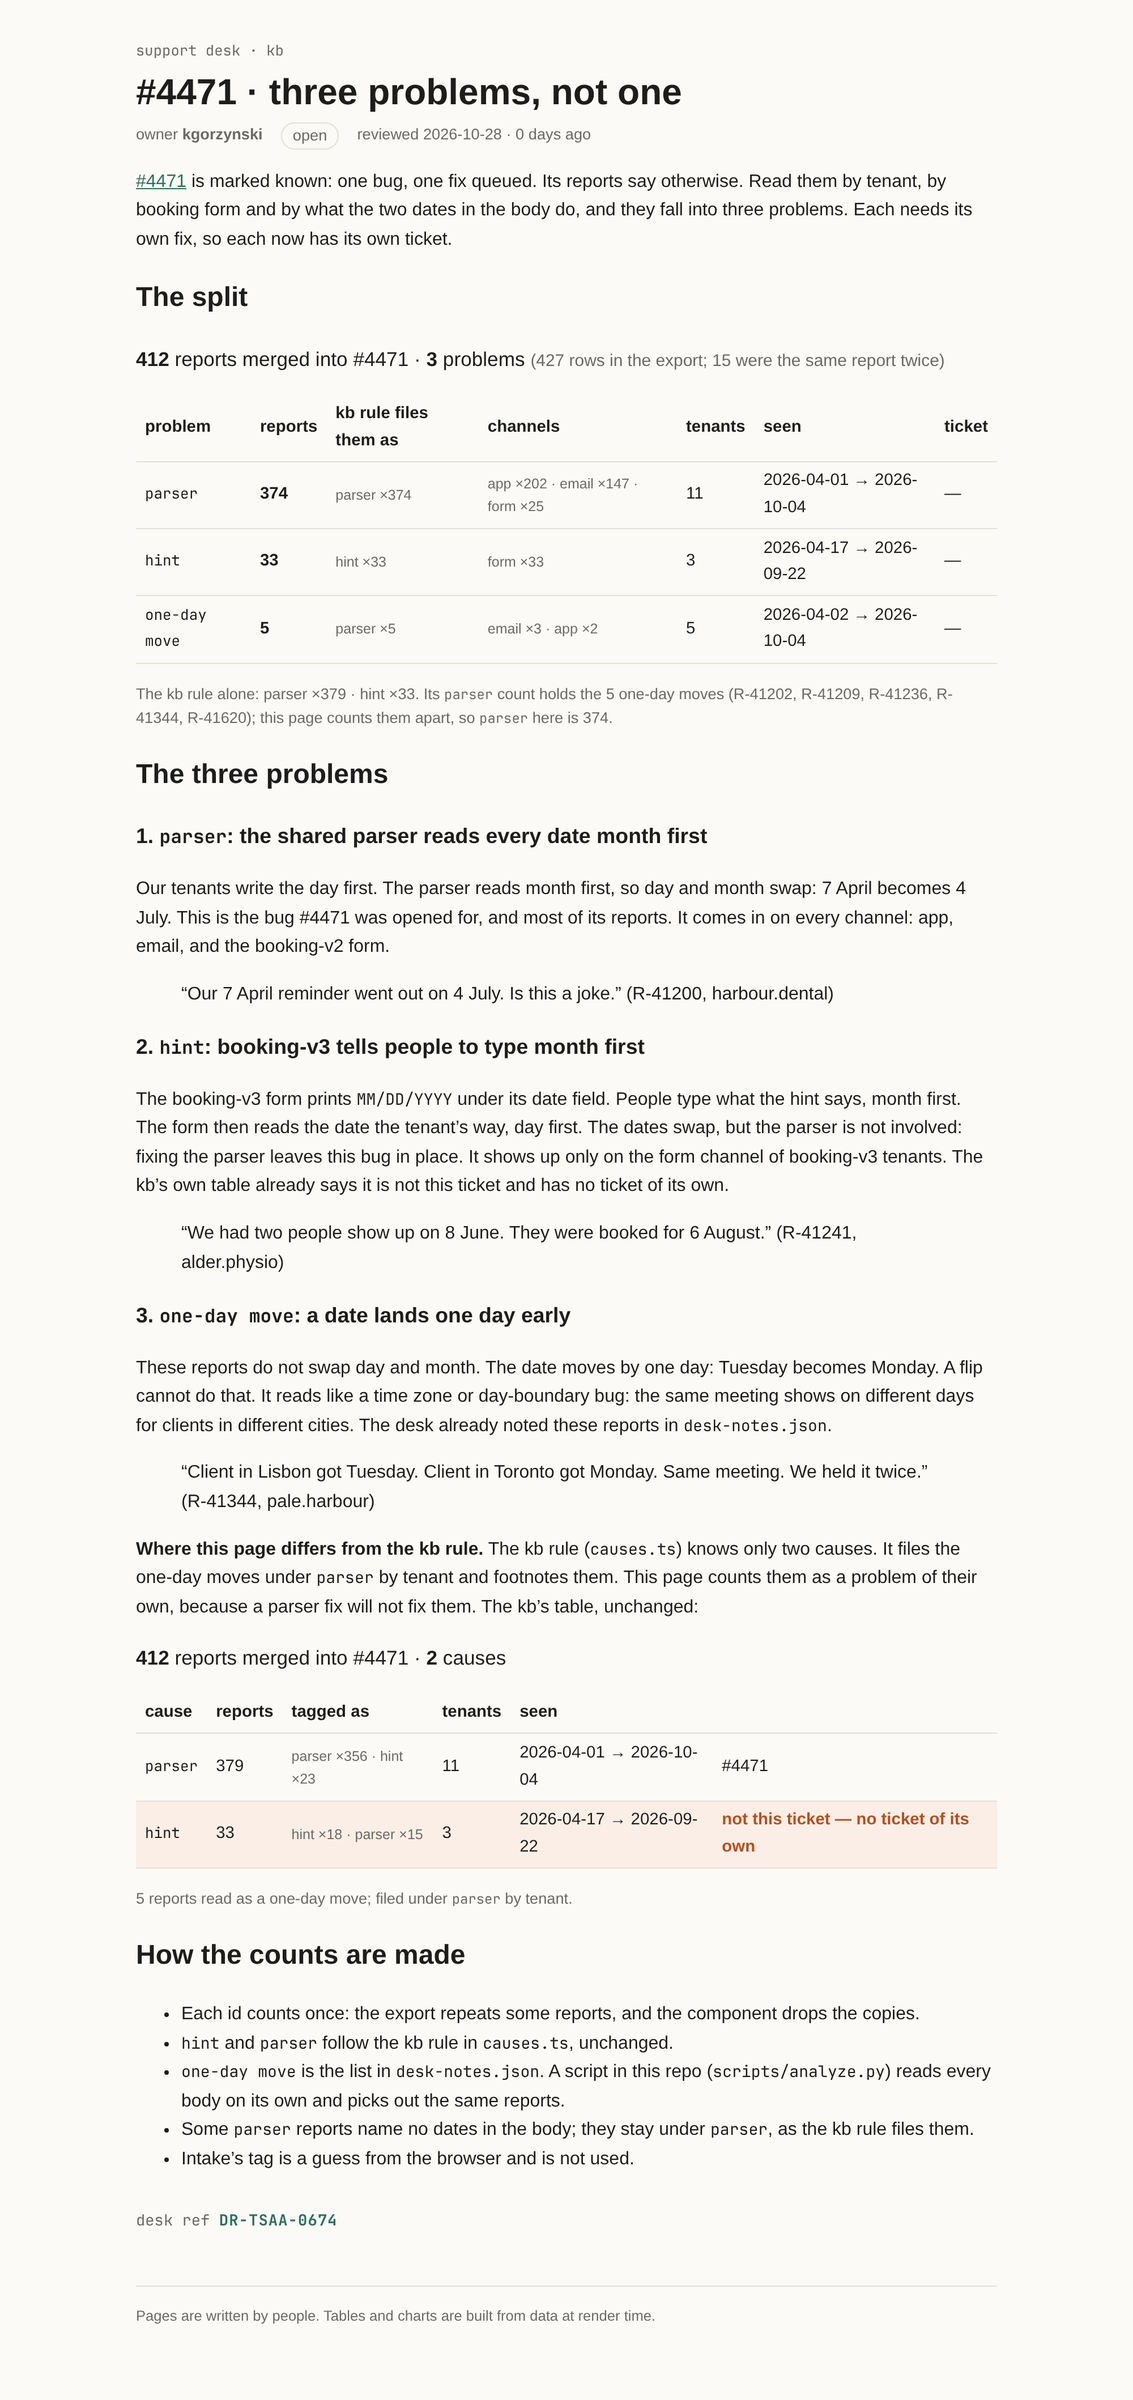
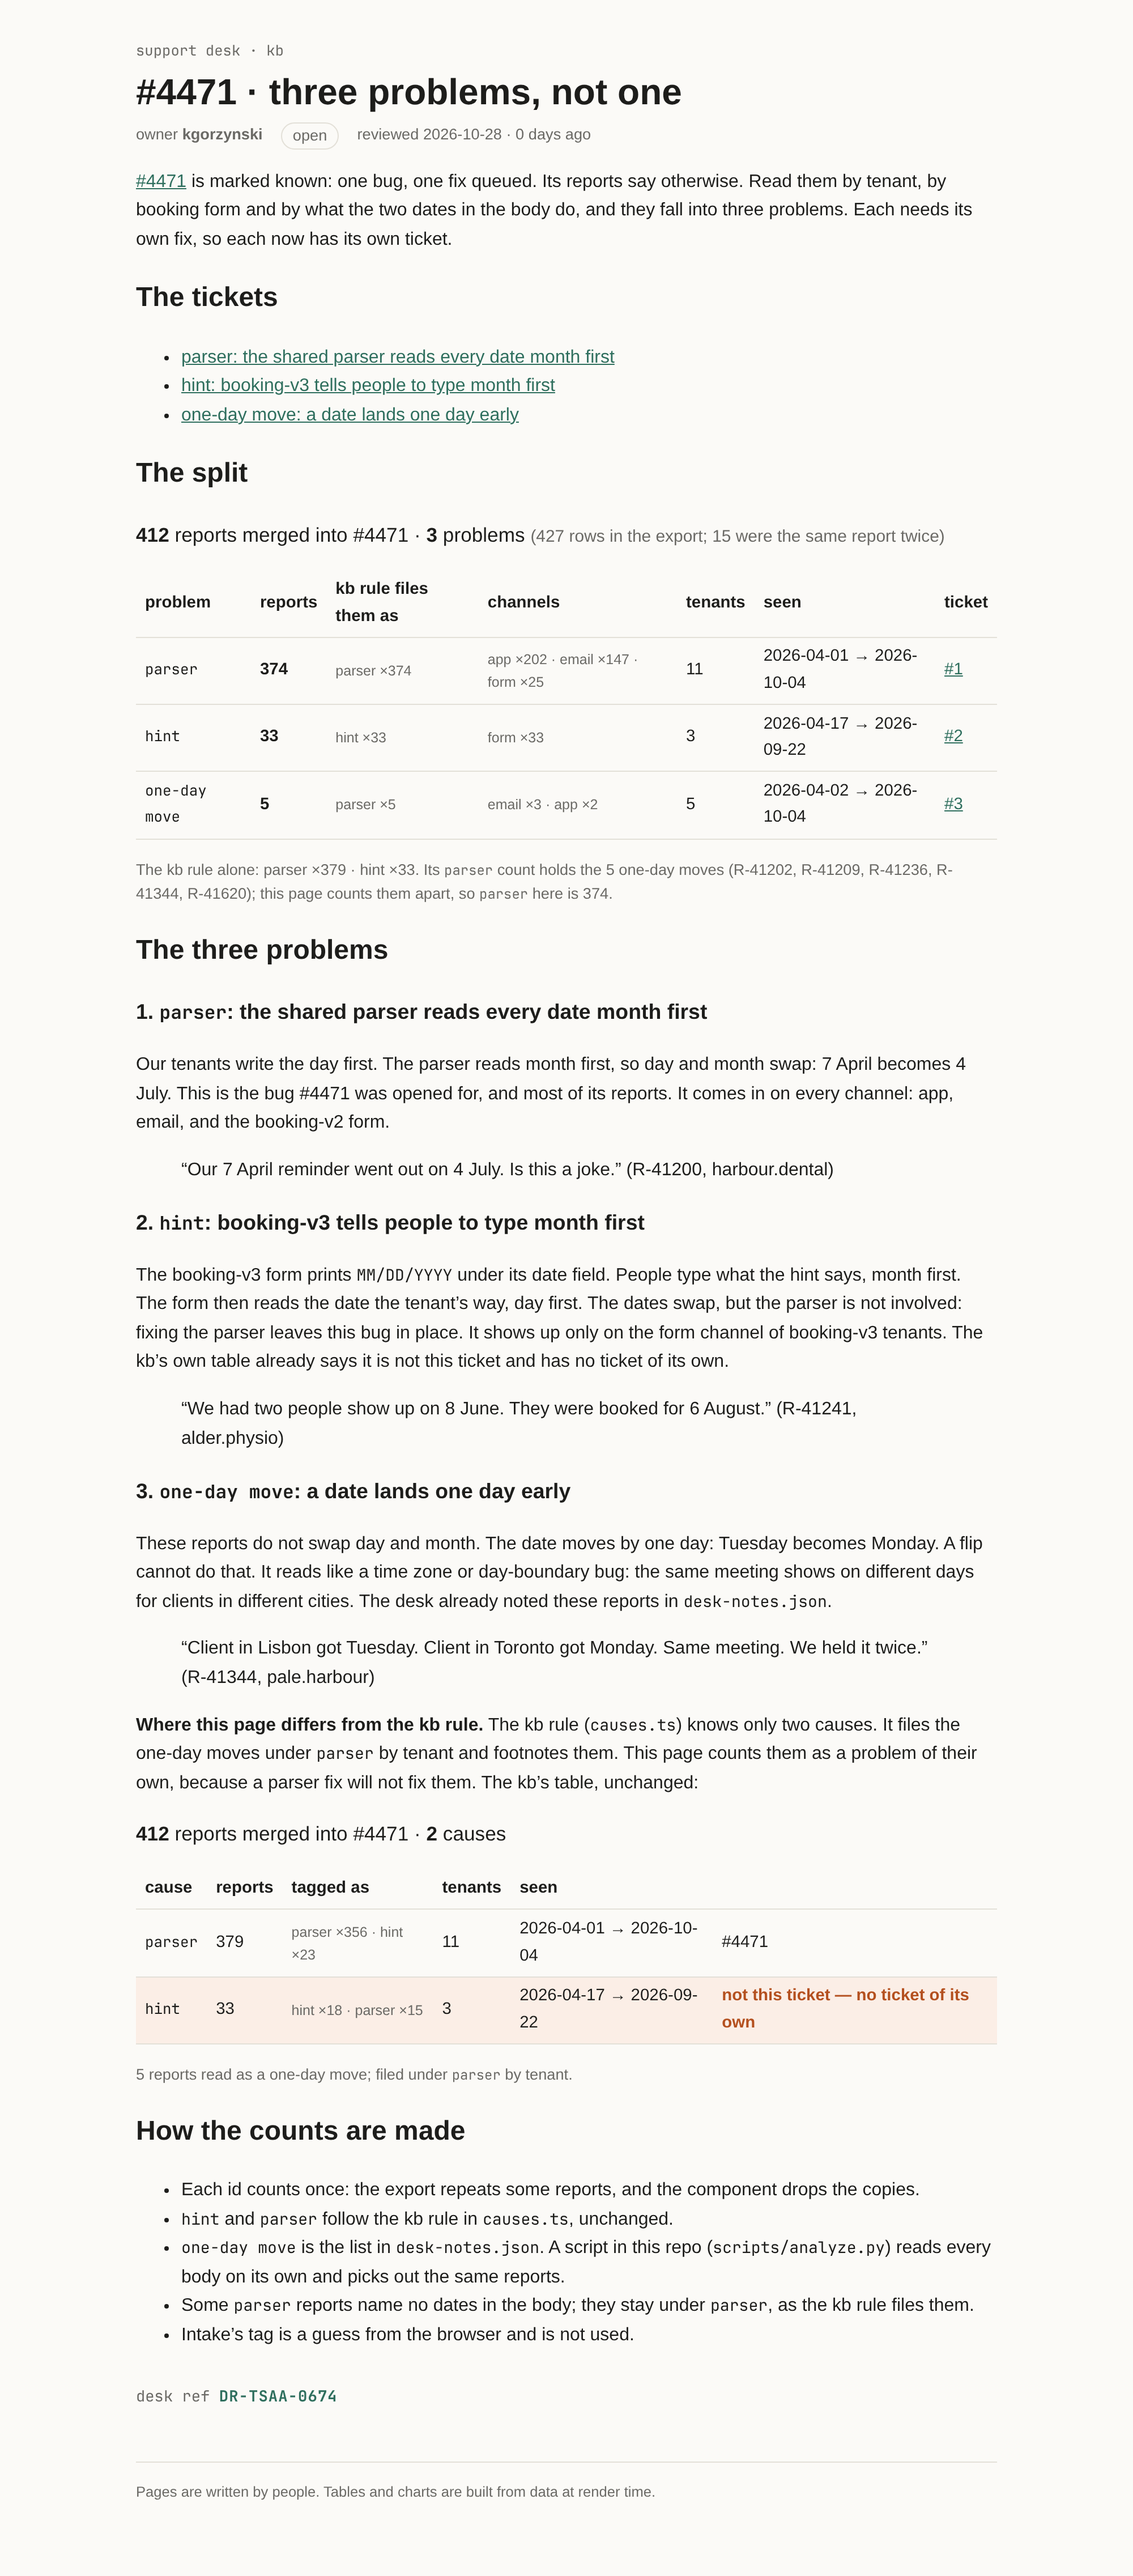
Link the three issues from the page and README; rebuild docs

diff --git a/docs/4471-causes.html b/docs/4471-causes.html
@@ -9,11 +9,11 @@
 		<link href="../../_app/immutable/chunks/B2Ul7l_u.js" rel="modulepreload">
 		<link href="../../_app/immutable/chunks/BCPXOG7W.js" rel="modulepreload">
 		<link href="../../_app/immutable/chunks/Dh1V97Jm.js" rel="modulepreload">
-		<link href="../../_app/immutable/entry/app.Bbrr2QIo.js" rel="modulepreload">
+		<link href="../../_app/immutable/entry/app.CYbav_6M.js" rel="modulepreload">
 		<link href="../../_app/immutable/nodes/0.C9KfiiPz.js" rel="modulepreload">
 		<link href="../../_app/immutable/chunks/DK3Fl9T5.js" rel="modulepreload">
-		<link href="../../_app/immutable/nodes/5.Czd6yYVp.js" rel="modulepreload">
-		<link href="../../_app/immutable/chunks/tKWQXxeI.js" rel="modulepreload">
+		<link href="../../_app/immutable/nodes/5.BUUXWW4l.js" rel="modulepreload">
+		<link href="../../_app/immutable/chunks/B0LXcAv6.js" rel="modulepreload">
 		<link href="../../_app/immutable/chunks/BTPwLomz.js" rel="modulepreload">
 		<link href="../../_app/immutable/chunks/B3RXGzY2.js" rel="modulepreload">
 		<link href="../../_app/immutable/chunks/BXWM2-hM.js" rel="modulepreload">
@@ -25,7 +25,7 @@
   <body data-sveltekit-preload-data="hover">
     <div style="display: contents"><!--[--><!--[--><!--[0--><!--[--><!--[--><!--[-1--><!--[--><div class="kb svelte-e2jw2j"><header><a class="crumb svelte-e2jw2j" href="/kb">support desk · kb</a> <h1 class="svelte-e2jw2j">#4471 · three problems, not one</h1> <p class="meta svelte-e2jw2j"><span>owner <b>kgorzynski</b></span> <span class="status open svelte-e2jw2j">open</span> <span class="svelte-e2jw2j">reviewed 2026-10-28 · 0 days ago</span></p></header> <!--[-1--><!--]--> <main><p><a href="/kb/incidents/4471">#4471</a> is marked known: one bug, one fix queued. Its reports say
 otherwise. Read them by tenant, by booking form and by what the two dates in the body do,
-and they fall into three problems. Each needs its own fix, so each now has its own ticket.</p> <h2>The split</h2> <p class="sum svelte-h3x27m"><strong>412</strong> reports merged into #4471 · <strong>3</strong> problems <span class="rows svelte-h3x27m">(427 rows in the export; 15 were the same report twice)</span></p> <table><thead><tr><th>problem</th><th>reports</th><th>kb rule files them as</th><th>channels</th><th>tenants</th><th>seen</th><th>ticket</th></tr></thead><tbody><!--[--><tr><td><code>parser</code></td><td><strong>374</strong></td><td class="tags svelte-h3x27m">parser ×374</td><td class="tags svelte-h3x27m">app ×202 · email ×147 · form ×25</td><td>11</td><td>2026-04-01 → 2026-10-04</td><td><!--[-1-->—<!--]--></td></tr><tr><td><code>hint</code></td><td><strong>33</strong></td><td class="tags svelte-h3x27m">hint ×33</td><td class="tags svelte-h3x27m">form ×33</td><td>3</td><td>2026-04-17 → 2026-09-22</td><td><!--[-1-->—<!--]--></td></tr><tr><td><code>one-day move</code></td><td><strong>5</strong></td><td class="tags svelte-h3x27m">parser ×5</td><td class="tags svelte-h3x27m">email ×3 · app ×2</td><td>5</td><td>2026-04-02 → 2026-10-04</td><td><!--[-1-->—<!--]--></td></tr><!--]--></tbody></table> <p class="note svelte-h3x27m">The kb rule alone: parser ×379 · hint ×33. Its <code>parser</code> count holds the
+and they fall into three problems. Each needs its own fix, so each now has its own ticket.</p> <h2>The tickets</h2> <ul><li><a href="https://github.com/kgorzynski/megadev-s01e03/issues/1" rel="nofollow">parser: the shared parser reads every date month first</a></li> <li><a href="https://github.com/kgorzynski/megadev-s01e03/issues/2" rel="nofollow">hint: booking-v3 tells people to type month first</a></li> <li><a href="https://github.com/kgorzynski/megadev-s01e03/issues/3" rel="nofollow">one-day move: a date lands one day early</a></li></ul> <h2>The split</h2> <p class="sum svelte-h3x27m"><strong>412</strong> reports merged into #4471 · <strong>3</strong> problems <span class="rows svelte-h3x27m">(427 rows in the export; 15 were the same report twice)</span></p> <table><thead><tr><th>problem</th><th>reports</th><th>kb rule files them as</th><th>channels</th><th>tenants</th><th>seen</th><th>ticket</th></tr></thead><tbody><!--[--><tr><td><code>parser</code></td><td><strong>374</strong></td><td class="tags svelte-h3x27m">parser ×374</td><td class="tags svelte-h3x27m">app ×202 · email ×147 · form ×25</td><td>11</td><td>2026-04-01 → 2026-10-04</td><td><!--[0--><a href="https://github.com/kgorzynski/megadev-s01e03/issues/1">#1</a><!--]--></td></tr><tr><td><code>hint</code></td><td><strong>33</strong></td><td class="tags svelte-h3x27m">hint ×33</td><td class="tags svelte-h3x27m">form ×33</td><td>3</td><td>2026-04-17 → 2026-09-22</td><td><!--[0--><a href="https://github.com/kgorzynski/megadev-s01e03/issues/2">#2</a><!--]--></td></tr><tr><td><code>one-day move</code></td><td><strong>5</strong></td><td class="tags svelte-h3x27m">parser ×5</td><td class="tags svelte-h3x27m">email ×3 · app ×2</td><td>5</td><td>2026-04-02 → 2026-10-04</td><td><!--[0--><a href="https://github.com/kgorzynski/megadev-s01e03/issues/3">#3</a><!--]--></td></tr><!--]--></tbody></table> <p class="note svelte-h3x27m">The kb rule alone: parser ×379 · hint ×33. Its <code>parser</code> count holds the
   5 one-day moves (R-41202, R-41209, R-41236, R-41344, R-41620); this page counts them apart, so <code>parser</code> here is 374.</p><!----> <h2>The three problems</h2> <h3>1. <code>parser</code>: the shared parser reads every date month first</h3> <p>Our tenants write the day first. The parser reads month first, so day and month swap:
 7 April becomes 4 July. This is the bug #4471 was opened for, and most of its reports.
 It comes in on every channel: app, email, and the booking-v2 form.</p> <blockquote><p>“Our 7 April reminder went out on 4 July. Is this a joke.” (R-41200, harbour.dental)</p></blockquote> <h3>2. <code>hint</code>: booking-v3 tells people to type month first</h3> <p>The booking-v3 form prints <code>MM/DD/YYYY</code> under its date field. People type what the hint says,
@@ -41,16 +41,16 @@ as a problem of their own, because a parser fix will not fix them. The kb’s ta
 			
 			<script>
 				{
-					__sveltekit_xqx1n4 = {
+					__sveltekit_it7kms = {
 						base: new URL("../..", location).pathname.slice(0, -1),
-						version: "1793170795037"
+						version: "1793170904710"
 					};
 
 					const element = document.currentScript.parentElement;
 
 					import("../../_app/immutable/entry/start.CH5w6lId.js").then(async (kit) => {
-						kit.init(__sveltekit_xqx1n4);
-						const app = await import("../../_app/immutable/entry/app.Bbrr2QIo.js");
+						kit.init(__sveltekit_it7kms);
+						const app = await import("../../_app/immutable/entry/app.CYbav_6M.js");
 						kit.start(app, element, {
 							node_ids: [0, 5],
 							data: [null,null],

diff --git a/README.md b/README.md
@@ -5,9 +5,9 @@ The reports describe three different problems. Each one needs its own fix.
 
 | problem | reports | ticket |
 |---|---|---|
-| `parser`: the shared parser reads every date month first | 374 | (pending) |
-| `hint`: the booking-v3 form tells people to type month first | 33 | (pending) |
-| `one-day move`: a date lands one day early (time zone or day boundary) | 5 | (pending) |
+| `parser`: the shared parser reads every date month first | 374 | [#1](https://github.com/kgorzynski/megadev-s01e03/issues/1) |
+| `hint`: the booking-v3 form tells people to type month first | 33 | [#2](https://github.com/kgorzynski/megadev-s01e03/issues/2) |
+| `one-day move`: a date lands one day early (time zone or day boundary) | 5 | [#3](https://github.com/kgorzynski/megadev-s01e03/issues/3) |
 | **total** | **412** | |
 
 The export has 427 rows. 15 reports appear twice as exact copies. Each id counts once, so the total is 412.
